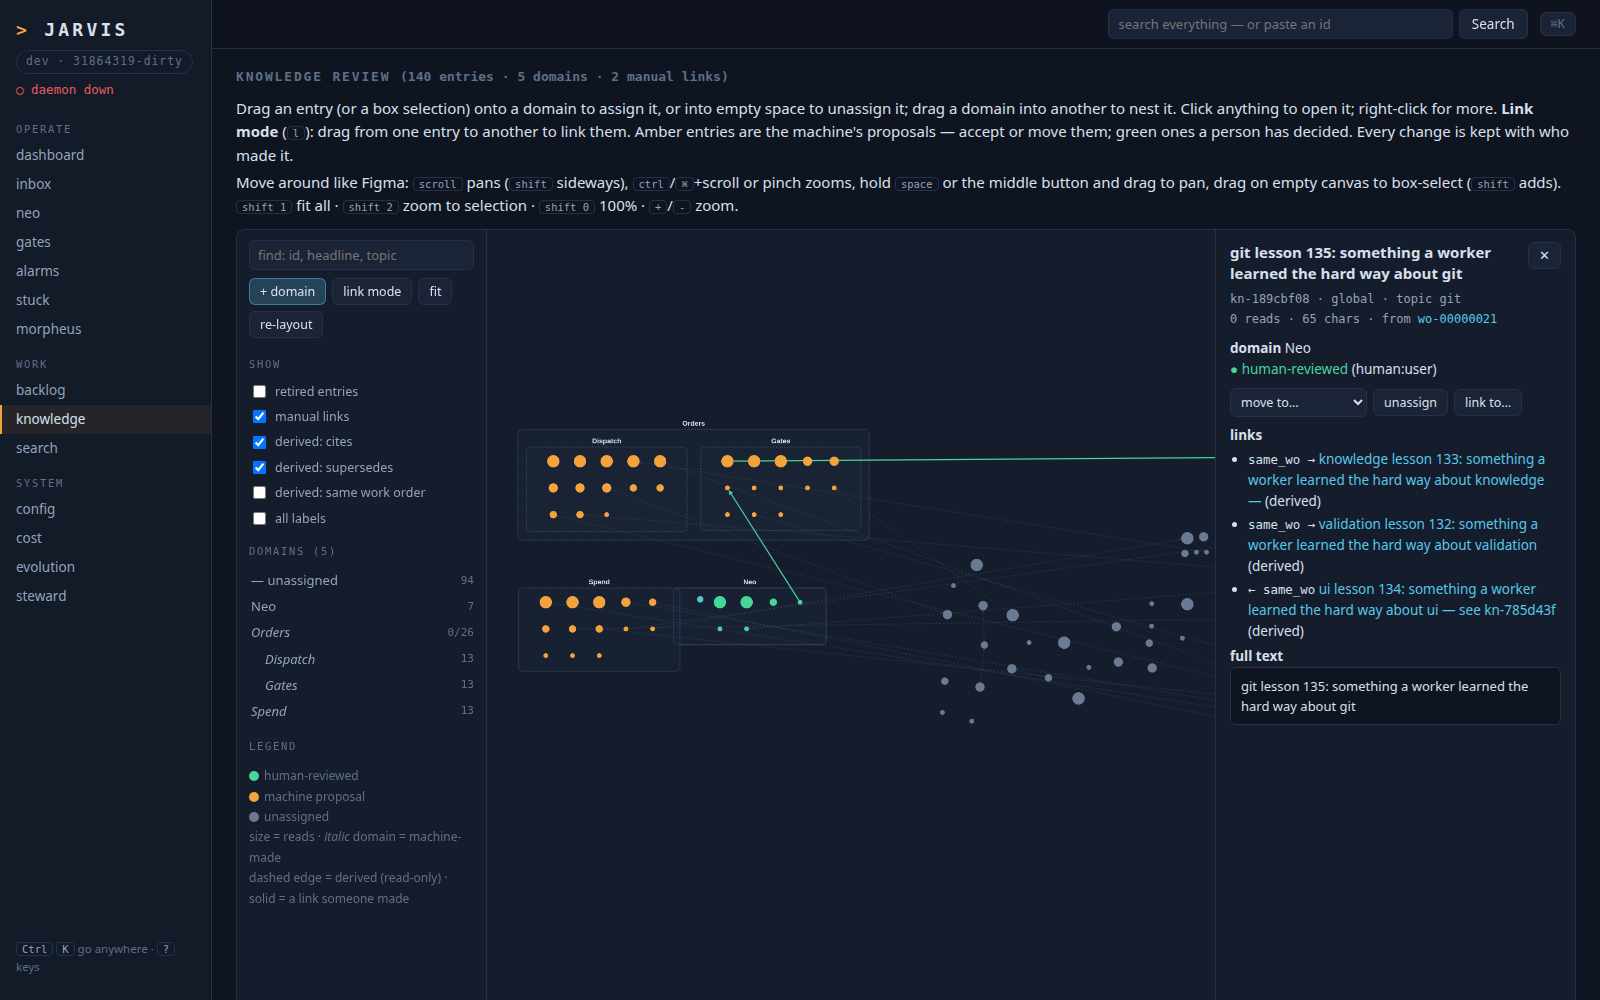
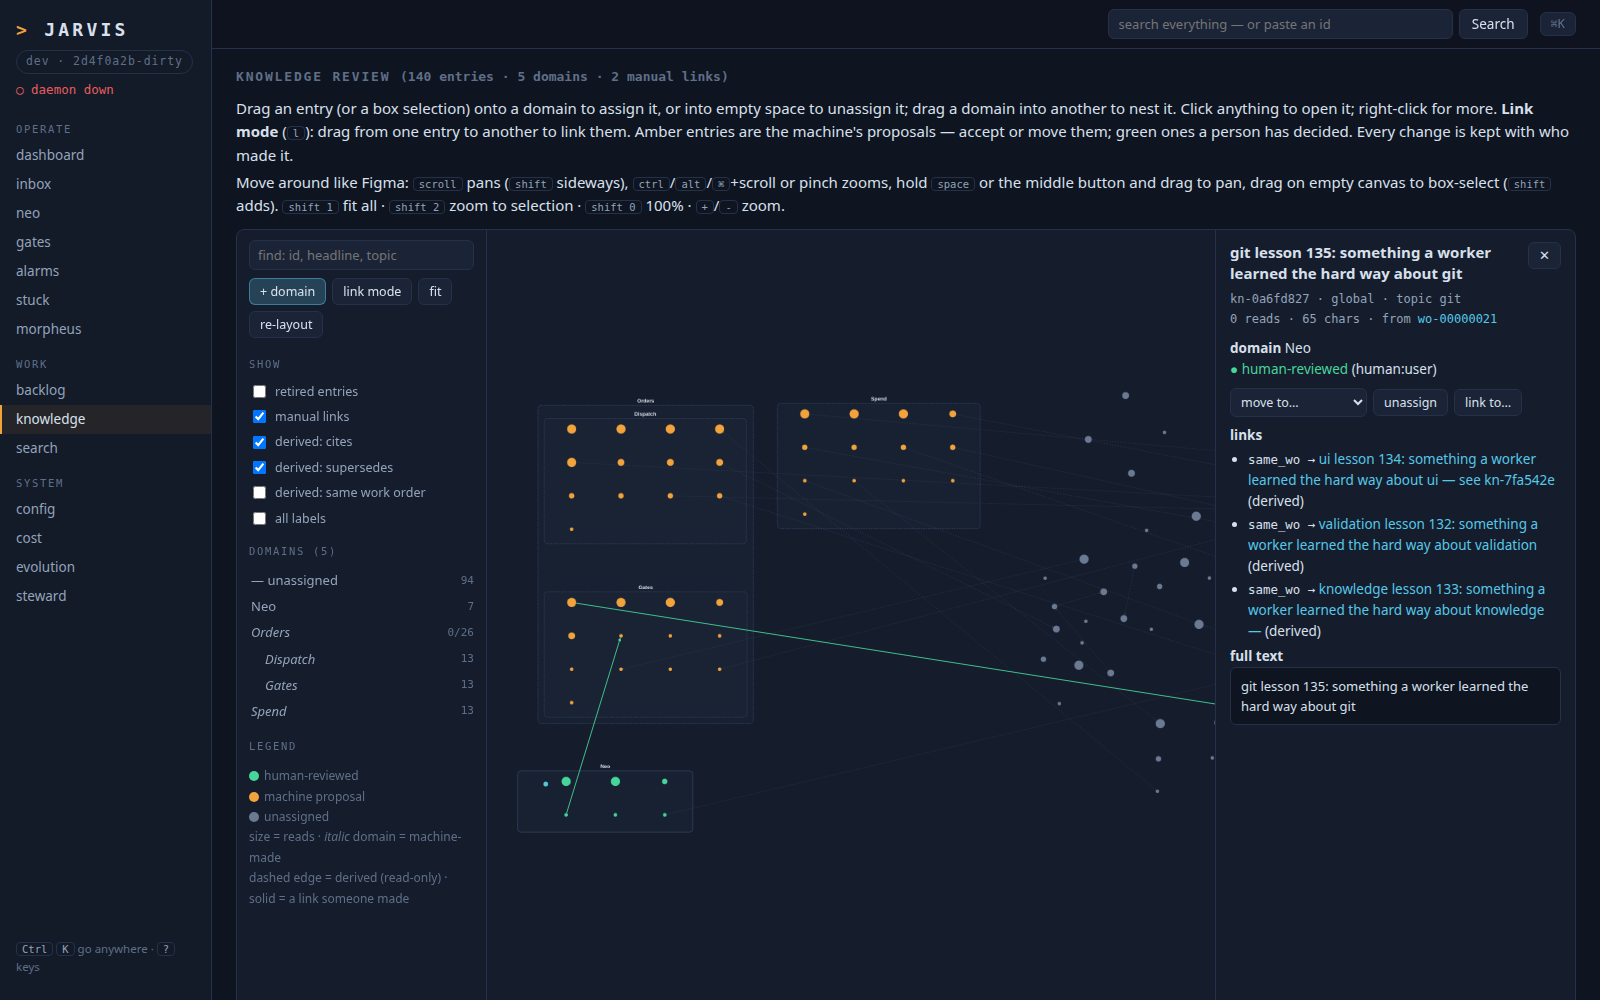
Knowledge review: labels never overlap; alt+scroll zooms
Grid cells are sized for a wrapped three-line label instead of the dot (0
overlapping label boxes over 798 entries, from many); the loose fcose region
spreads to match. Saved positions are versioned so old cramped ones are not
restored. Alt joins ctrl/cmd as a zoom modifier: GNOME grabs Super+mouse, so
cmd/Super+scroll never reaches the page on this desktop.

Claude-Session: https://claude.ai/code/session_01EmWS9zj77b8JafoNYc29vA

diff --git a/src/jarvis/ui/templates/knowledge_review.html b/src/jarvis/ui/templates/knowledge_review.html
@@ -87,7 +87,7 @@
 </p>
 <p class="sub" style="margin: 4px 0 0">
   Move around like Figma: <kbd class="kbd">scroll</kbd> pans (<kbd class="kbd">shift</kbd> sideways),
-  <kbd class="kbd">ctrl</kbd>/<kbd class="kbd">⌘</kbd>+scroll or pinch zooms, hold
+  <kbd class="kbd">ctrl</kbd>/<kbd class="kbd">alt</kbd>/<kbd class="kbd">⌘</kbd>+scroll or pinch zooms, hold
   <kbd class="kbd">space</kbd> or the middle button and drag to pan, drag on empty canvas to
   box-select (<kbd class="kbd">shift</kbd> adds). <kbd class="kbd">shift 1</kbd> fit all ·
   <kbd class="kbd">shift 2</kbd> zoom to selection · <kbd class="kbd">shift 0</kbd> 100% ·
@@ -174,7 +174,9 @@ window._ = window._ || {
 
   var root = document.getElementById('kr');
   var RELS = root.dataset.rels.split(',');
-  var POS_KEY = 'kb-review-positions-v1';
+  // v2: cells grew to fit wrapped labels; v1 positions would put them back on top of each other
+  var POS_KEY = 'kb-review-positions-v2';
+  var LABEL_W = 110, LABEL_CHARS = 60;  // ~3 wrapped lines at the entry font size
   var C = { human: '#46d69a', machine: '#f2a33c', none: '#6b7a93', ink: '#d9e0ec',
             ink2: '#93a3ba', line: '#253049', cyan: '#56c8e8', amber: '#f2a33c', red: '#e85d5d' };
   var REL_COLOR = { relates_to: C.cyan, supersedes: C.amber, depends_on: C.human, duplicates: C.red };
@@ -268,8 +270,8 @@ window._ = window._ || {
       { selector: 'node.entry', style: {
         'width': 'data(size)', 'height': 'data(size)', 'background-color': C.none,
         'border-width': 0, 'label': 'data(label)', 'font-size': 7, 'color': C.ink2,
-        'text-valign': 'bottom', 'text-margin-y': 2, 'text-wrap': 'ellipsis',
-        'text-max-width': 70, 'min-zoomed-font-size': 9 } },
+        'text-valign': 'bottom', 'text-margin-y': 2, 'text-wrap': 'wrap',
+        'text-max-width': LABEL_W, 'min-zoomed-font-size': 9 } },
       { selector: 'node.entry.human', style: { 'background-color': C.human } },
       { selector: 'node.entry.machine', style: { 'background-color': C.machine } },
       { selector: 'node.entry.retired', style: { 'opacity': 0.45, 'border-width': 1.5,
@@ -331,7 +333,7 @@ window._ = window._ || {
     });
     p.nodes.forEach(function (n) {
       els.entries.push({ group: 'nodes', data: { id: n.id, kind: 'entry',
-        label: n.headline.length > 90 ? n.headline.slice(0, 88) + '…' : n.headline,
+        label: n.headline.length > LABEL_CHARS ? n.headline.slice(0, LABEL_CHARS - 1) + '…' : n.headline,
         parent: state.domains[n.domain_id] ? n.domain_id : undefined, size: entrySize(n.reads) },
         classes: 'entry ' + status(n) + (n.retired ? ' retired' : '') });
     });
@@ -439,7 +441,9 @@ window._ = window._ || {
   // So the domains are PACKED — each one's entries in a grid sorted by topic, subdomains
   // as blocks beside them, recursively — and fcose lays out only the loose entries, whose
   // clusters are the point, in their own region to the right.
-  var CELL = 50, GAP = 48, PAD = 14, LABEL = 24;
+  // A grid cell is sized for its LABEL, not its dot: a headline wraps to at most three
+  // lines of LABEL_W, under a dot of at most 44px, so neighbours' labels never touch.
+  var CELL_W = LABEL_W + 14, CELL_H = 84, GAP = 48, PAD = 14, LABEL = 24;
 
   function shelf(parts) {
     if (!parts.length) return { w: 0, h: 0, place: function () {} };
@@ -459,9 +463,14 @@ window._ = window._ || {
       var ta = (state.nodes[a.id()] || {}).topic || '', tb = (state.nodes[b.id()] || {}).topic || '';
       return ta < tb ? -1 : ta > tb ? 1 : b.data('size') - a.data('size');
     });
-    var cols = Math.max(1, Math.ceil(Math.sqrt(arr.length * 1.6)));
-    return { w: cols * CELL, h: Math.ceil(arr.length / cols) * CELL, place: function (x, y) {
-      arr.forEach(function (e, i) { e.position({ x: x + (i % cols) * CELL + CELL / 2, y: y + Math.floor(i / cols) * CELL + CELL / 2 }); });
+    // Columns for a block about 1.4x wider than tall, given cells wider than tall
+    var cols = Math.max(1, Math.ceil(Math.sqrt(arr.length * 1.4 * CELL_H / CELL_W)));
+    return { w: cols * CELL_W, h: Math.ceil(arr.length / cols) * CELL_H, place: function (x, y) {
+      arr.forEach(function (e, i) {
+        // the dot sits near the top of its cell; its label hangs below it
+        e.position({ x: x + (i % cols) * CELL_W + CELL_W / 2,
+                     y: y + Math.floor(i / cols) * CELL_H + 24 });
+      });
     } };
   }
   function leavesOf(eles) { return eles.union(eles.descendants()).filter(function (n) { return !n.isParent(); }); }
@@ -484,8 +493,9 @@ window._ = window._ || {
       var loose = cy.nodes('.entry').filter(function (n) { return !n.parent().length; });
       if (loose.length) {
         loose.union(loose.edgesWith(loose)).layout({ name: 'fcose', quality: 'default',
-          randomize: true, animate: false, fit: false, nodeRepulsion: 6500,
-          idealEdgeLength: 55, packComponents: true, tile: true }).run();
+          randomize: true, animate: false, fit: false, nodeRepulsion: 45000,
+          idealEdgeLength: 140, nodeSeparation: 120, tilingPaddingVertical: 70,
+          tilingPaddingHorizontal: CELL_W, packComponents: true, tile: true }).run();
         var bb = loose.boundingBox({ includeLabels: false });
         loose.shift({ x: (packed.w ? packed.w + GAP * 3 : 0) - bb.x1, y: -bb.y1 });
       }
@@ -888,8 +898,9 @@ window._ = window._ || {
     e.preventDefault();
     var unit = e.deltaMode === 1 ? 16 : e.deltaMode === 2 ? view.clientHeight : 1;
     var dx = e.deltaX * unit, dy = e.deltaY * unit;
-    // One notch of a mouse wheel (~100px) zooms ~18%; a pinch sends many small deltas
-    if (e.ctrlKey || e.metaKey) { zoomAt(Math.exp(-dy * 0.002), e.clientX, e.clientY); return; }
+    // One notch of a mouse wheel (~100px) zooms ~18%; a pinch sends many small deltas.
+    // Alt too: GNOME grabs Super+mouse for window moves, so ⌘/Super+scroll never arrives.
+    if (e.ctrlKey || e.metaKey || e.altKey) { zoomAt(Math.exp(-dy * 0.002), e.clientX, e.clientY); return; }
     if (e.shiftKey && !dx) { dx = dy; dy = 0; }
     cy.panBy({ x: -dx, y: -dy });
   }, { passive: false });
